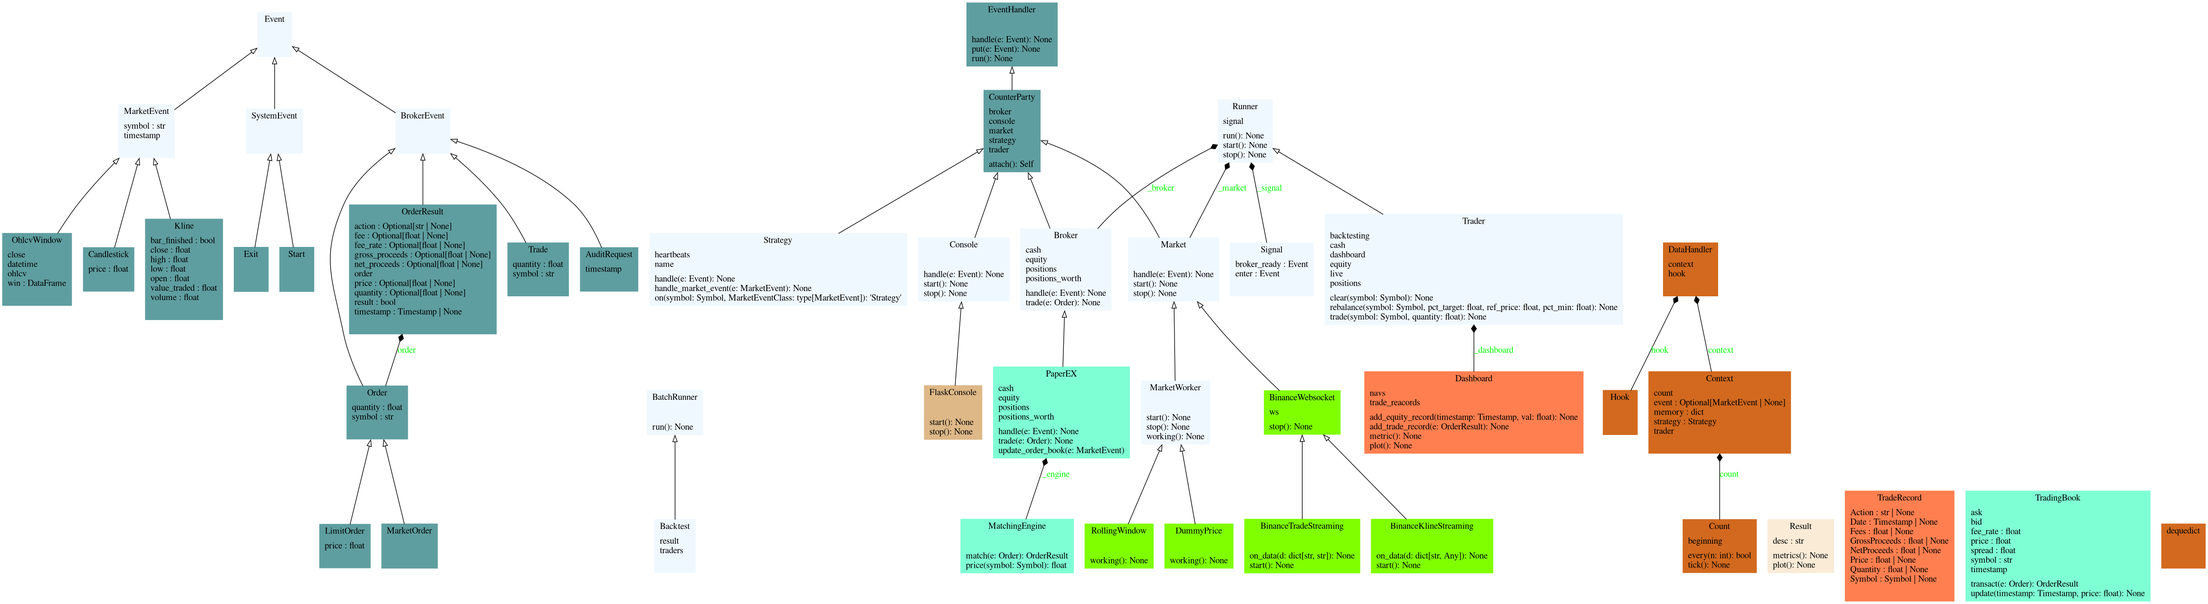
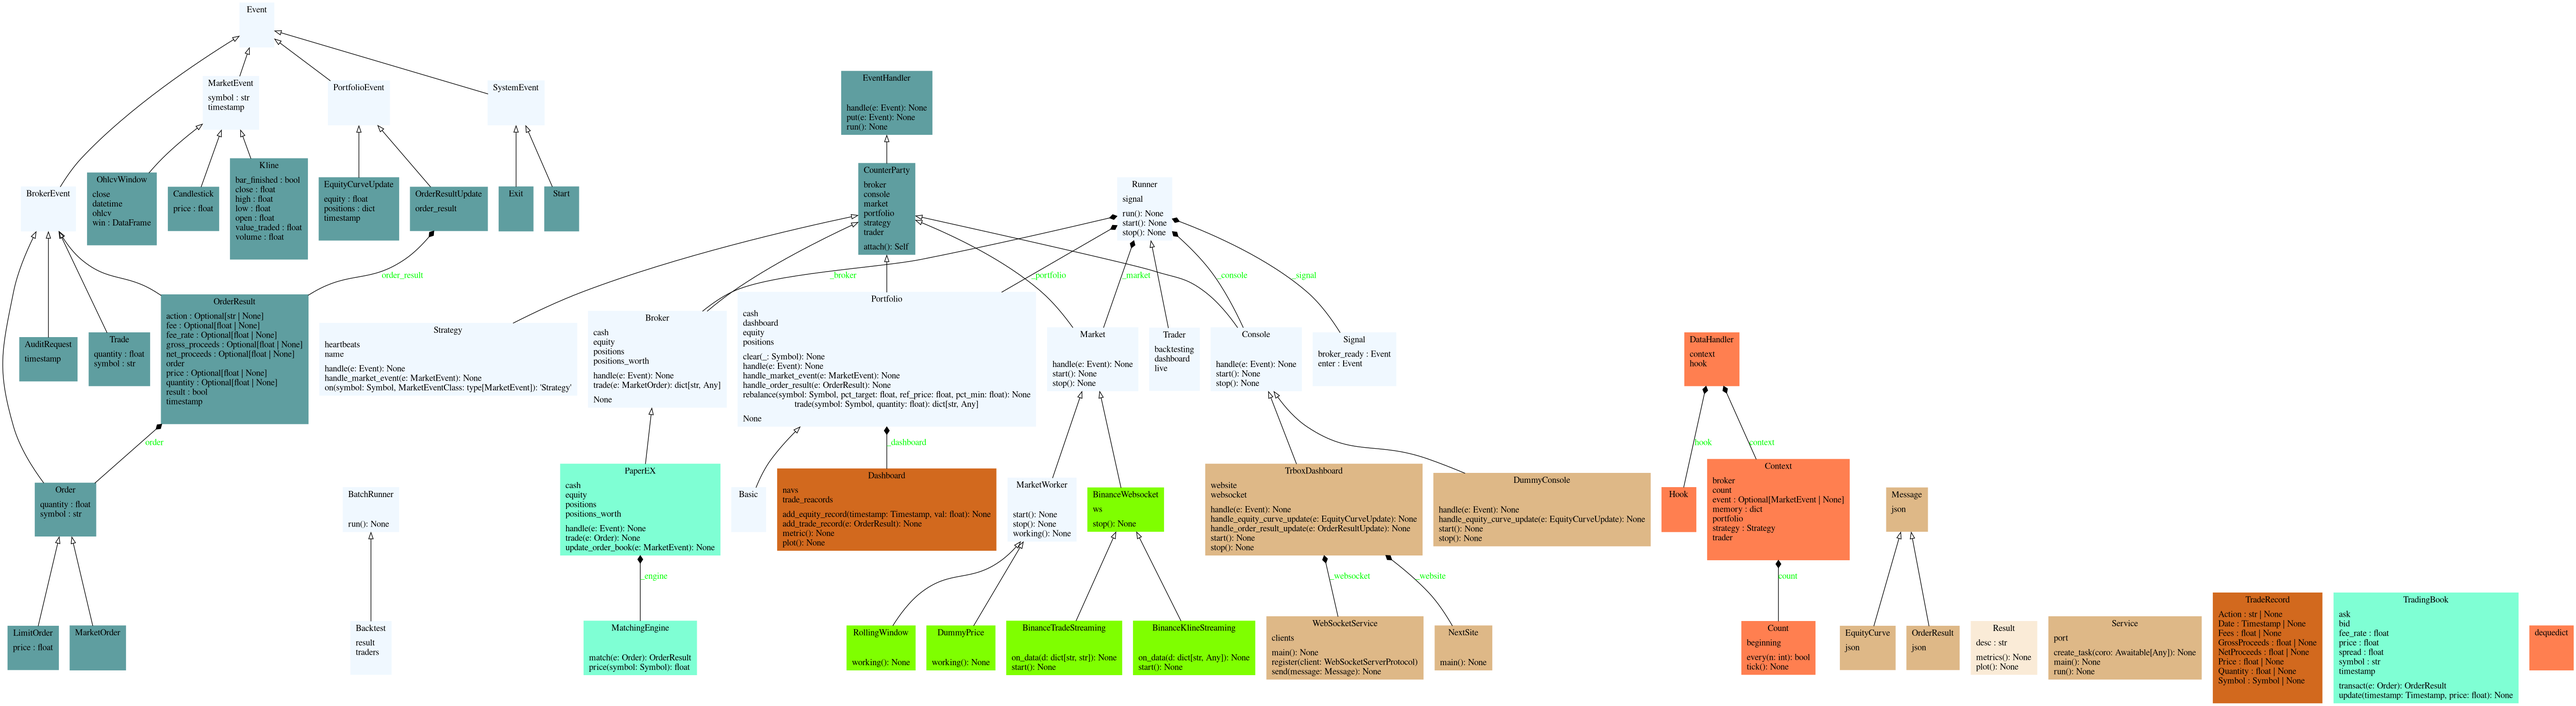
feat: request equity curve history

diff --git a/trbox/console/services/ws.py b/trbox/console/services/ws.py
@@ -1,7 +1,8 @@
-from asyncio import Future
-from typing import Any, Set
+from __future__ import annotations
 
-import websockets
+from asyncio import Future
+from typing import TYPE_CHECKING, Any, Set
+
 from typing_extensions import override
 from websockets.legacy.protocol import broadcast
 from websockets.server import WebSocketServerProtocol, serve
@@ -10,16 +11,25 @@ from trbox.common.logger import Log
 from trbox.common.logger.parser import Memo
 from trbox.console.services import Service
 from trbox.console.services.message import Message
+from trbox.event.portfolio import EquityCurveHistoryRequest
 
+if TYPE_CHECKING:
+    from trbox.console.dashboard import TrboxDashboard
+
+DEFAULT_HISTORY_LENGTH: int | None = None
 
 #
 # websocket
 #
+
+
 class WebSocketService(Service):
     def __init__(self,
                  *args: Any,
+                 host: TrboxDashboard,
                  **kwargs: Any) -> None:
         super().__init__(*args, **kwargs)
+        self._host = host
         self._ws: WebSocketServerProtocol | None = None
         self._clients: Set[WebSocketServerProtocol] = set()
 
@@ -29,11 +39,18 @@ class WebSocketService(Service):
 
     # ws_handle
     async def register(self, client: WebSocketServerProtocol):
+        # a client just connected here
         self._clients.add(client)
         Log.warning(Memo('Connected', n_conn=len(self.clients), e=client)
                     .by(self).tag('client', 'connected'))
+        # from here client will start to receive live updating messages
         try:
-            await client.wait_closed()
+            # keep listening for incoming message request
+            async for msg in client:
+                Log.critical(msg)
+                if msg == 'EquityValueHistoryRequest':
+                    self._host.portfolio.put(
+                        EquityCurveHistoryRequest(DEFAULT_HISTORY_LENGTH))
         finally:
             self._clients.remove(client)
             Log.warning(Memo('Disconnected', n_conn=len(self.clients), e=client)

diff --git a/trbox/console/dashboard.py b/trbox/console/dashboard.py
@@ -3,11 +3,14 @@ from typing_extensions import override
 from trbox.common.logger import Log
 from trbox.common.logger.parser import Memo
 from trbox.console import Console
-from trbox.console.services.message import EquityCurve, OrderResult
+from trbox.console.services.message import (EquityCurve, EquityCurveHistory,
+                                            OrderResult)
 from trbox.console.services.nextjs_site import NextSite
 from trbox.console.services.ws import WebSocketService
 from trbox.event import Event
-from trbox.event.portfolio import EquityCurveUpdate, OrderResultUpdate
+from trbox.event.portfolio import (EquityCurveHistoryRequest,
+                                   EquityCurveHistoryUpdate, EquityCurveUpdate,
+                                   OrderResultUpdate)
 
 
 class TrboxDashboard(Console):
@@ -18,7 +21,8 @@ class TrboxDashboard(Console):
         self._website = NextSite(port=website_port,
                                  daemon=True)
         self._websocket = WebSocketService(port=websocket_port,
-                                           daemon=True)
+                                           daemon=True,
+                                           host=self)
 
     @property
     def website(self) -> NextSite:
@@ -51,6 +55,9 @@ class TrboxDashboard(Console):
     def handle_order_result_update(self, e: OrderResultUpdate) -> None:
         self.websocket.send(OrderResult(e))
 
+    def handle_equity_curve_history_update(self, e: EquityCurveHistoryUpdate) -> None:
+        self.websocket.send(EquityCurveHistory(e))
+
     @override
     def handle(self, e: Event) -> None:
         super().handle(e)
@@ -59,3 +66,5 @@ class TrboxDashboard(Console):
             self.handle_equity_curve_update(e)
         elif isinstance(e, OrderResultUpdate):
             self.handle_order_result_update(e)
+        elif isinstance(e, EquityCurveHistoryUpdate):
+            self.handle_equity_curve_history_update(e)

diff --git a/trbox/portfolio/__init__.py b/trbox/portfolio/__init__.py
@@ -9,7 +9,9 @@ from trbox.common.types import Positions, Symbol
 from trbox.event import Event, MarketEvent
 from trbox.event.broker import MarketOrder, OrderResult
 from trbox.event.handler import CounterParty
-from trbox.event.portfolio import EquityCurveUpdate, OrderResultUpdate
+from trbox.event.portfolio import (EquityCurveHistoryRequest,
+                                   EquityCurveHistoryUpdate, EquityCurveUpdate,
+                                   OrderResultUpdate)
 from trbox.portfolio.dashboard import Dashboard
 
 
@@ -88,12 +90,19 @@ class Portfolio(CounterParty, ABC):
         self.dashboard.add_trade_record(e)
         self.console.put(OrderResultUpdate(e))
 
+    def handle_equity_curve_history_request(self, e: EquityCurveHistoryRequest) -> None:
+        series = self.dashboard.navs.iloc[-e.n:] \
+            if e.n is not None else self.dashboard.navs
+        self.console.put(EquityCurveHistoryUpdate(series))
+
     @override
     def handle(self, e: Event) -> None:
         if isinstance(e, MarketEvent):
             self.handle_market_event(e)
         elif isinstance(e, OrderResult):
             self.handle_order_result(e)
+        elif isinstance(e, EquityCurveHistoryRequest):
+            self.handle_equity_curve_history_request(e)
 
 
 class Basic(Portfolio):

diff --git a/trbox/console/services/message.py b/trbox/console/services/message.py
@@ -4,12 +4,14 @@ from typing import Generic, Literal, TypeVar
 
 from typing_extensions import override
 
-from trbox.event.portfolio import EquityCurveUpdate, OrderResultUpdate
+from trbox.event.portfolio import (EquityCurveHistoryUpdate, EquityCurveUpdate,
+                                   OrderResultUpdate)
 
 # a list of defined tags that the frontend is willing to handle
 Tag = Literal[
     'EquityValue',
-    'OrderResult'
+    'EquityCurveHistory',
+    'OrderResult',
 ]
 
 T = TypeVar('T')
@@ -73,5 +75,22 @@ class EquityCurve(Message[EquityCurveUpdate]):
                 timestamp=d.timestamp.isoformat(),
                 equity=d.equity
             )
+        )
+        return json.dumps(packed)
+
+
+class EquityCurveHistory(Message[EquityCurveHistoryUpdate]):
+    def __init__(self,
+                 data: EquityCurveHistoryUpdate) -> None:
+        super().__init__('EquityCurveHistory', data)
+
+    @property
+    @override
+    def json(self) -> str:
+        d = self._data
+        packed = dict(
+            tag=self._tag,
+            data=[dict(timestamp=t.isoformat(), equity=v)
+                  for t, v in d.series.items()]
         )
         return json.dumps(packed)

diff --git a/trbox/event/portfolio.py b/trbox/event/portfolio.py
@@ -1,6 +1,6 @@
 from dataclasses import dataclass
 
-from pandas import Timestamp
+from pandas import Series, Timestamp
 
 from trbox.common.types import Positions
 from trbox.event import PortfolioEvent
@@ -12,6 +12,16 @@ class EquityCurveUpdate(PortfolioEvent):
     timestamp: Timestamp
     equity: float
     positions: Positions
+
+
+@dataclass
+class EquityCurveHistoryUpdate(PortfolioEvent):
+    series: Series
+
+
+@dataclass
+class EquityCurveHistoryRequest(PortfolioEvent):
+    n: int | None
 
 
 @dataclass
